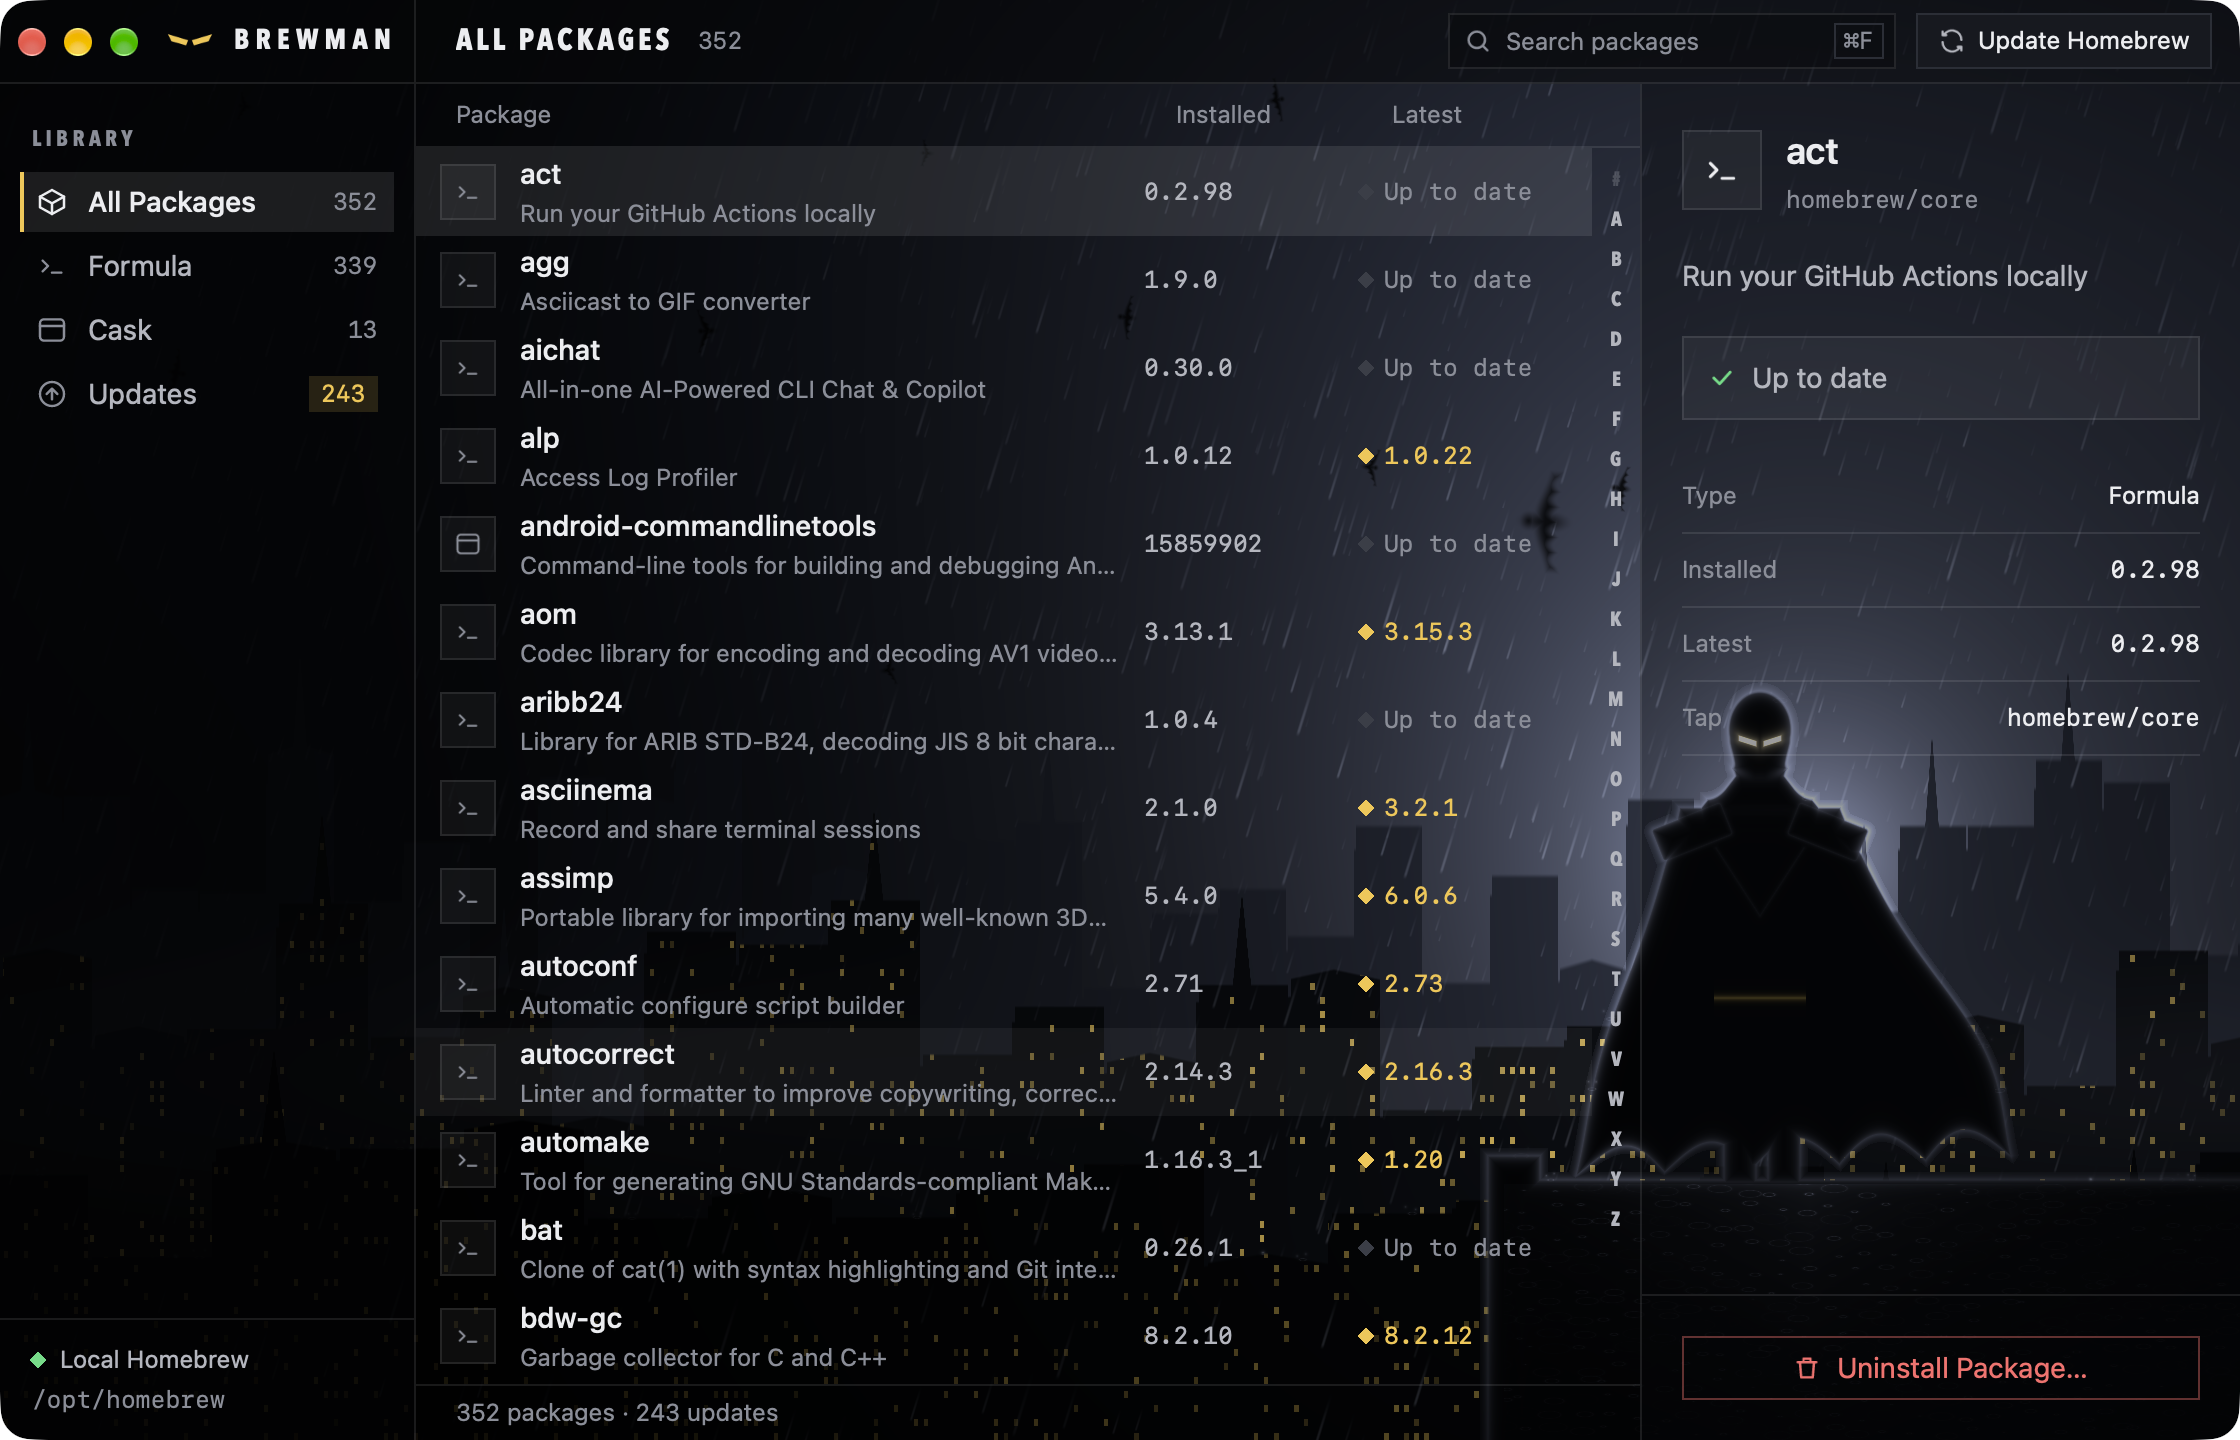
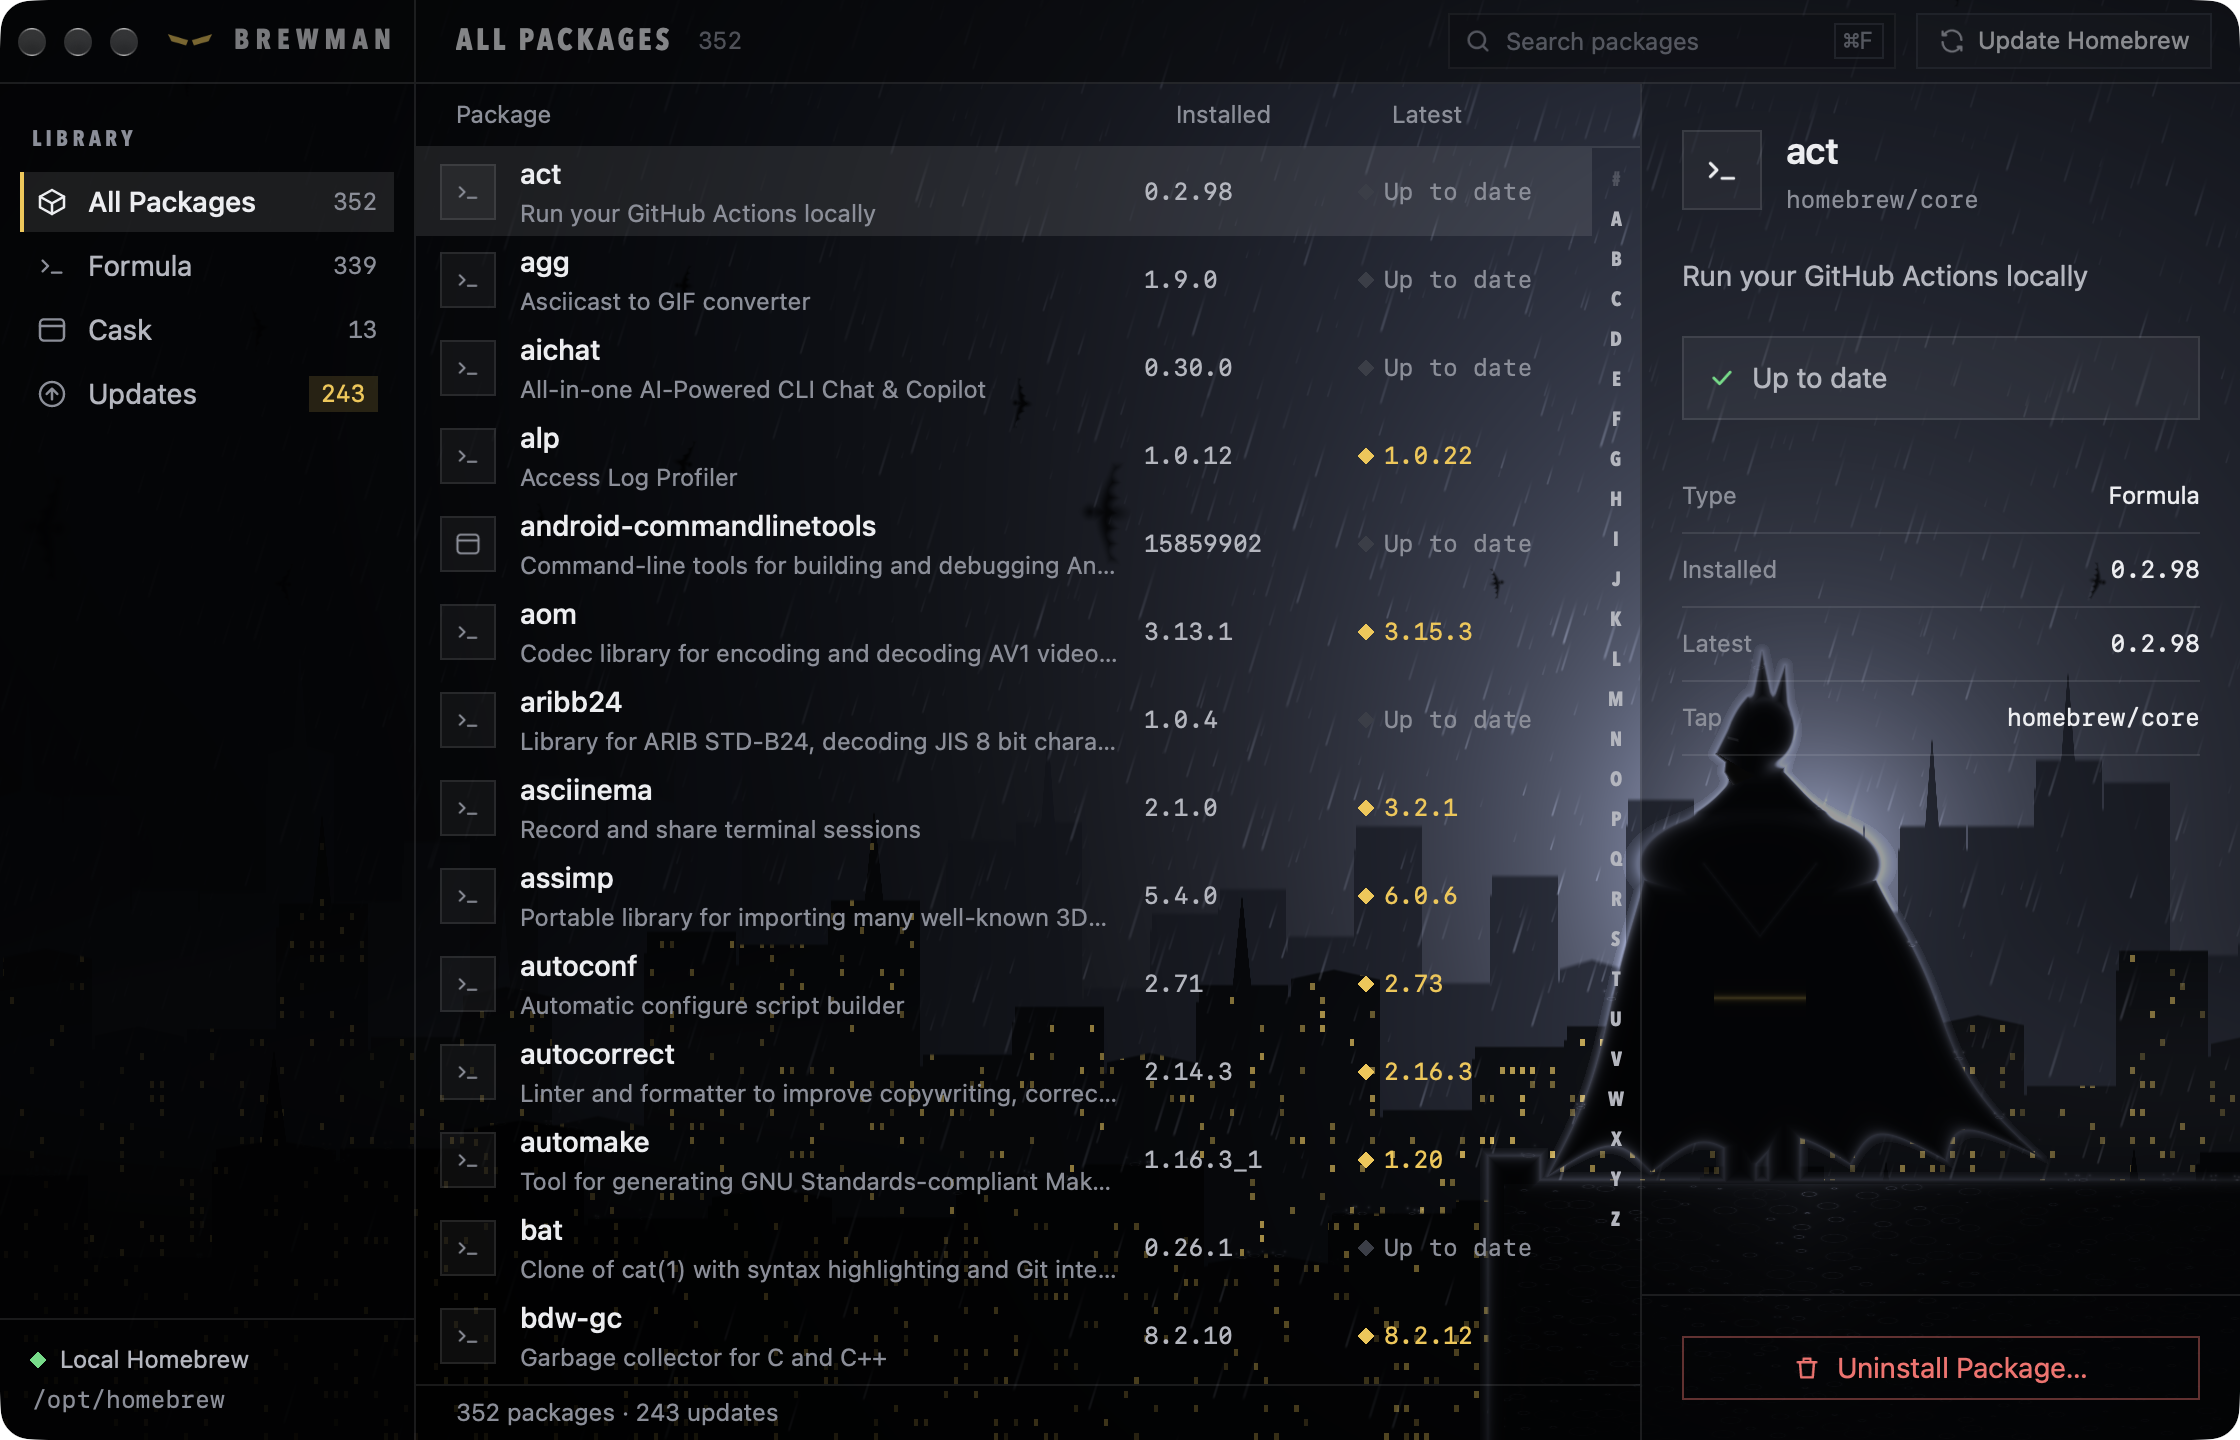
Backdrop figure: profile turned left, pointed hood ears, broad shoulders
- Head in profile looking left past the roof's edge: brow, nose and chin,
  two pointed hood ears (the far one shorter), a shadowed eye with a faint
  glint instead of glowing eyes, and a bare lower face below the mask
- Shoulder plates removed; broad rounded shoulders under the cape, which
  now hangs from them

diff --git a/src/ui/NightScene.tsx b/src/ui/NightScene.tsx
@@ -67,11 +67,38 @@ fn segment(p: vec2f, a: vec2f, b: vec2f) -> f32 {
   let pa = p - a; let ba = b - a;
   return length(pa - ba * clamp(dot(pa, ba) / dot(ba, ba), 0.0, 1.0));
 }
-// The two armor plates over the shoulders: angular, sloping down and out.
-fn plates(p: vec2f) -> f32 {
-  let l = box(rot(p - vec2f(846.0, 416.0), -0.38), vec2f(0.0), vec2f(17.0, 7.0)) - 1.5;
-  let r = box(rot(p - vec2f(914.0, 416.0), 0.38), vec2f(0.0), vec2f(17.0, 7.0)) - 1.5;
-  return min(l, r);
+// Signed distance to a triangle a, b, c.
+fn tri(p: vec2f, a: vec2f, b: vec2f, c: vec2f) -> f32 {
+  let e0 = b - a; let e1 = c - b; let e2 = a - c;
+  let v0 = p - a; let v1 = p - b; let v2 = p - c;
+  let pq0 = v0 - e0 * clamp(dot(v0, e0) / dot(e0, e0), 0.0, 1.0);
+  let pq1 = v1 - e1 * clamp(dot(v1, e1) / dot(e1, e1), 0.0, 1.0);
+  let pq2 = v2 - e2 * clamp(dot(v2, e2) / dot(e2, e2), 0.0, 1.0);
+  let sg = sign(e0.x * e2.y - e0.y * e2.x);
+  let d = min(min(vec2f(dot(pq0, pq0), sg * (v0.x * e0.y - v0.y * e0.x)),
+                  vec2f(dot(pq1, pq1), sg * (v1.x * e1.y - v1.y * e1.x))),
+                  vec2f(dot(pq2, pq2), sg * (v2.x * e2.y - v2.y * e2.x)));
+  return -sqrt(d.x) * sign(d.y);
+}
+// Signed distance to the face in profile, looking left: brow, nose, lips and chin, back to the jaw.
+fn face(p: vec2f) -> f32 {
+  var v = array<vec2f, 9>(vec2f(874.0, 349.0), vec2f(866.0, 361.0), vec2f(861.5, 370.0), vec2f(858.0, 377.0),
+    vec2f(863.0, 381.0), vec2f(862.5, 386.0), vec2f(867.0, 393.0), vec2f(883.0, 395.0), vec2f(889.0, 368.0));
+  var d = dot(p - v[0], p - v[0]);
+  var s = 1.0;
+  var j = 8;
+  for (var i = 0; i < 9; i = i + 1) {
+    let e = v[j] - v[i];
+    let w = p - v[i];
+    let b = w - e * clamp(dot(w, e) / dot(e, e), 0.0, 1.0);
+    d = min(d, dot(b, b));
+    let c0 = p.y >= v[i].y;
+    let c1 = v[j].y > p.y;
+    let c2 = e.x * w.y > e.y * w.x;
+    if ((c0 && c1 && c2) || (!c0 && !c1 && !c2)) { s = -s; }
+    j = i;
+  }
+  return s * sqrt(d);
 }
 fn box(p: vec2f, c: vec2f, half: vec2f) -> f32 {
   let d = abs(p - c) - half;
@@ -80,30 +107,33 @@ fn box(p: vec2f, c: vec2f, half: vec2f) -> f32 {
 // The cape's half-widths at height y: narrow at the shoulders, wide and wind-blown below, its hem cut in scallops.
 fn cape(p: vec2f) -> f32 {
   let y = p.y;
-  let fall = pow(clamp((y - 404.0) / 186.0, 0.0, 1.0), 1.1);
+  let fall = pow(clamp((y - 440.0) / 150.0, 0.0, 1.0), 1.1);
   let gust = sin(nsh.time * 0.9 + y * 0.03) * smoothstep(430.0, 590.0, y);
-  let left = 40.0 + 58.0 * fall + 6.0 * gust;
-  let right = 40.0 + 104.0 * fall + 16.0 * gust;
+  let left = 58.0 + 48.0 * fall + 6.0 * gust;
+  let right = 58.0 + 92.0 * fall + 16.0 * gust;
   let side = max((880.0 - left) - p.x, p.x - (880.0 + right));
   let u = (p.x - (880.0 - left)) / (left + right);
   let hem = 588.0 - 14.0 * abs(sin(u * 3.14159 * 5.0)) - 10.0 * u;   // five scallops, lifting to the windward side
-  return max(side, max(404.0 - y, y - hem));
+  return max(side, max(440.0 - y, y - hem));
 }
 // Signed distance (frame units) to the figure: an angular hood with a brow, armored shoulders, a tapering torso
 // and a scalloped cape, standing on a rooftop with a parapet.
 fn figure(p: vec2f) -> f32 {
-  let skull = length((p - vec2f(880.0, 365.0)) / vec2f(1.0, 1.22)) - 15.5;
-  let jaw = max(box(p, vec2f(880.0, 382.0), vec2f(12.5, 10.0)), abs(p.x - 880.0) * 0.8 + (p.y - 394.0));
-  let head = smin(skull, jaw, 5.0);
-  // The hood drapes from the head onto the shoulders: a neck that widens as it falls.
-  let neck = max(abs(p.x - 880.0) - mix(12.0, 26.0, clamp((p.y - 388.0) / 18.0, 0.0, 1.0)), max(386.0 - p.y, p.y - 410.0));
-  let shoulders = max(abs(p.x - 880.0) - mix(26.0, 44.0, clamp((p.y - 400.0) / 22.0, 0.0, 1.0)), max(400.0 - p.y, p.y - 426.0));
-  let pauldrons = plates(p);
-  let taper = mix(34.0, 22.0, clamp((p.y - 412.0) / 88.0, 0.0, 1.0));
-  let torso = max(abs(p.x - 880.0) - taper, max(408.0 - p.y, p.y - 504.0));
+  // The head in profile, turned to the left to look out past the roof's edge, a little bowed; the hood's two
+  // pointed ears rise from the back of the skull, the far one shorter.
+  let skull = length((p - vec2f(882.0, 365.0)) / vec2f(1.0, 1.15)) - 15.0;
+  let ears = min(tri(p, vec2f(876.0, 352.0), vec2f(886.0, 350.0), vec2f(881.0, 326.0)),
+                 tri(p, vec2f(886.0, 352.0), vec2f(894.0, 356.0), vec2f(892.5, 333.0)));
+  let head = smin(smin(skull, face(p), 4.0), ears, 2.5);
+  // Broad shoulders under the cape: the trapezius sloping from the neck into a wide, rounded mass.
+  let neck = max(abs(p.x - 881.0) - mix(11.0, 30.0, clamp((p.y - 386.0) / 20.0, 0.0, 1.0)), max(384.0 - p.y, p.y - 412.0));
+  let shoulders = length((p - vec2f(880.0, 432.0)) / vec2f(60.0, 28.0)) * 28.0 - 28.0;
+  let pauldrons = shoulders;
+  let taper = mix(50.0, 26.0, clamp((p.y - 430.0) / 74.0, 0.0, 1.0));
+  let torso = max(abs(p.x - 880.0) - taper, max(436.0 - p.y, p.y - 504.0));
   let legs = min(box(p, vec2f(870.0, 548.0), vec2f(8.0, 44.0)), box(p, vec2f(892.0, 548.0), vec2f(8.0, 44.0)));
   var body = smin(head, neck, 5.0);
-  body = smin(body, min(shoulders, pauldrons), 6.0);
+  body = smin(body, shoulders, 9.0);
   body = min(body, min(torso, legs));
   body = min(body, cape(p));
   let roof = max(752.0 - p.x, 590.0 - p.y);
@@ -112,20 +142,15 @@ fn figure(p: vec2f) -> f32 {
 }
 // The eyes: two narrow slanted slits in the hood, lit from within; they blink every few seconds.
 fn eyes(p: vec2f) -> f32 {
-  let blink = 1.0 - step(0.965, fract(nsh.time / 5.3));
-  var glow = 0.0;
-  for (var s = -1.0; s <= 1.0; s = s + 2.0) {
-    let q = p - vec2f(880.0 + s * 6.2, 370.5);
-    let r = vec2f(q.x, q.y + s * q.x * 0.32);          // slanted down toward the nose
-    let d = box(r, vec2f(0.0), vec2f(4.2, 1.1 * blink + 0.05));
-    glow = max(glow, (1.0 - smoothstep(-0.4, 0.6, d)) + 0.55 * exp(-max(d, 0.0) / 2.2));
-  }
-  return glow;
+  let q = p - vec2f(866.5, 369.5);
+  let r = vec2f(q.x, q.y - q.x * 0.25);
+  let d = box(r, vec2f(0.0), vec2f(2.6, 0.55));
+  return 1.0 - smoothstep(-0.3, 0.5, d);
 }
 // Light caught on the armor: the pauldrons' rims, the chest plate's edge and a glint on the belt.
 fn armor(p: vec2f) -> vec2f {
-  let rims = exp(-abs(plates(p)) / 0.9);
-  let v = min(segment(p, vec2f(858.0, 424.0), vec2f(880.0, 458.0)), segment(p, vec2f(902.0, 424.0), vec2f(880.0, 458.0)));
+  let rims = 0.0;
+  let v = min(segment(p, vec2f(852.0, 432.0), vec2f(880.0, 468.0)), segment(p, vec2f(908.0, 432.0), vec2f(880.0, 468.0)));
   let chest = exp(-v / 0.8);
   let belt = exp(-abs(p.y - 499.0) / 1.2) * step(abs(p.x - 880.0), 23.0);
   return vec2f((rims + chest * 0.6) * step(p.x, 930.0), belt);
@@ -303,7 +328,12 @@ fn shade(uv: vec2f) -> vec4f {
   let shine = armor(fp);
   col = col + uniforms.glow.rgb * shine.x * 0.12 * inside + uniforms.gold.rgb * shine.y * 0.45 * inside;
   let e = eyes(fp);
-  col = col + mix(uniforms.gold.rgb, vec3f(1.0), 0.6) * e * inside * 1.1 + uniforms.gold.rgb * e * 0.15 * (1.0 - inside);
+  col = col + vec3f(0.55, 0.55, 0.6) * e * inside * 0.22;
+  // Below the mask's edge (from under the nose back to the jaw) the lower face is bare: a shade warmer than the
+  // cowl, its outline catching a little of the light.
+  let bare = inside * step(fp.x, 881.0) * step(377.0 + (fp.x - 859.0) * 0.6, fp.y) * step(fp.y, 393.0 - (fp.x - 866.0) * 0.45) * step(face(fp), 0.5);
+  col = mix(col, uniforms.base.rgb * 0.34 + uniforms.gold.rgb * 0.025, bare);
+  col = col + uniforms.glow.rgb * exp(-abs(face(fp)) / 0.8) * bare * 0.25;
 
   // The rain, in front of the city and the figure, catching the backlight more where it is brighter.
   // The near rain stops where it meets the figure and the roof; where it lands it splashes, and the roof's puddles

diff --git a/DESIGN.md b/DESIGN.md
@@ -45,7 +45,7 @@ write colours or radii.
 
 | Change | Motion | Reduced motion |
 |---|---|---|
-| Backdrop | A rainy night: rain in three depth layers slants from the upper right to the lower left; a few bats cross on random paths, speeds and sizes, their number drifting from none to a small flock; distant lightning flickers in some 11s spans; the backlight breathes, the cape billows, the figure's eyes blink every ~5s; all in the shader | Shader paused (a still night) |
+| Backdrop | A rainy night: rain in three depth layers slants from the upper right to the lower left; a few bats cross on random paths, speeds and sizes, their number drifting from none to a small flock; distant lightning flickers in some 11s spans; the backlight breathes, the cape billows; the figure stands in profile, turned left to look out past the roof's edge; all in the shader | Shader paused (a still night) |
 | Letter index pressed | The list scrolls to the first package under that letter (animated scroll) and selects it; the letter at the top of the list is lit gold as it scrolls | Jumps without animation |
 | About opens / closes | Native dialog fade, focus on Close | No animation |
 | Window loses / regains focus | Title bar contents fade to 50–55% opacity and back, 150ms ease-out | Instant |
